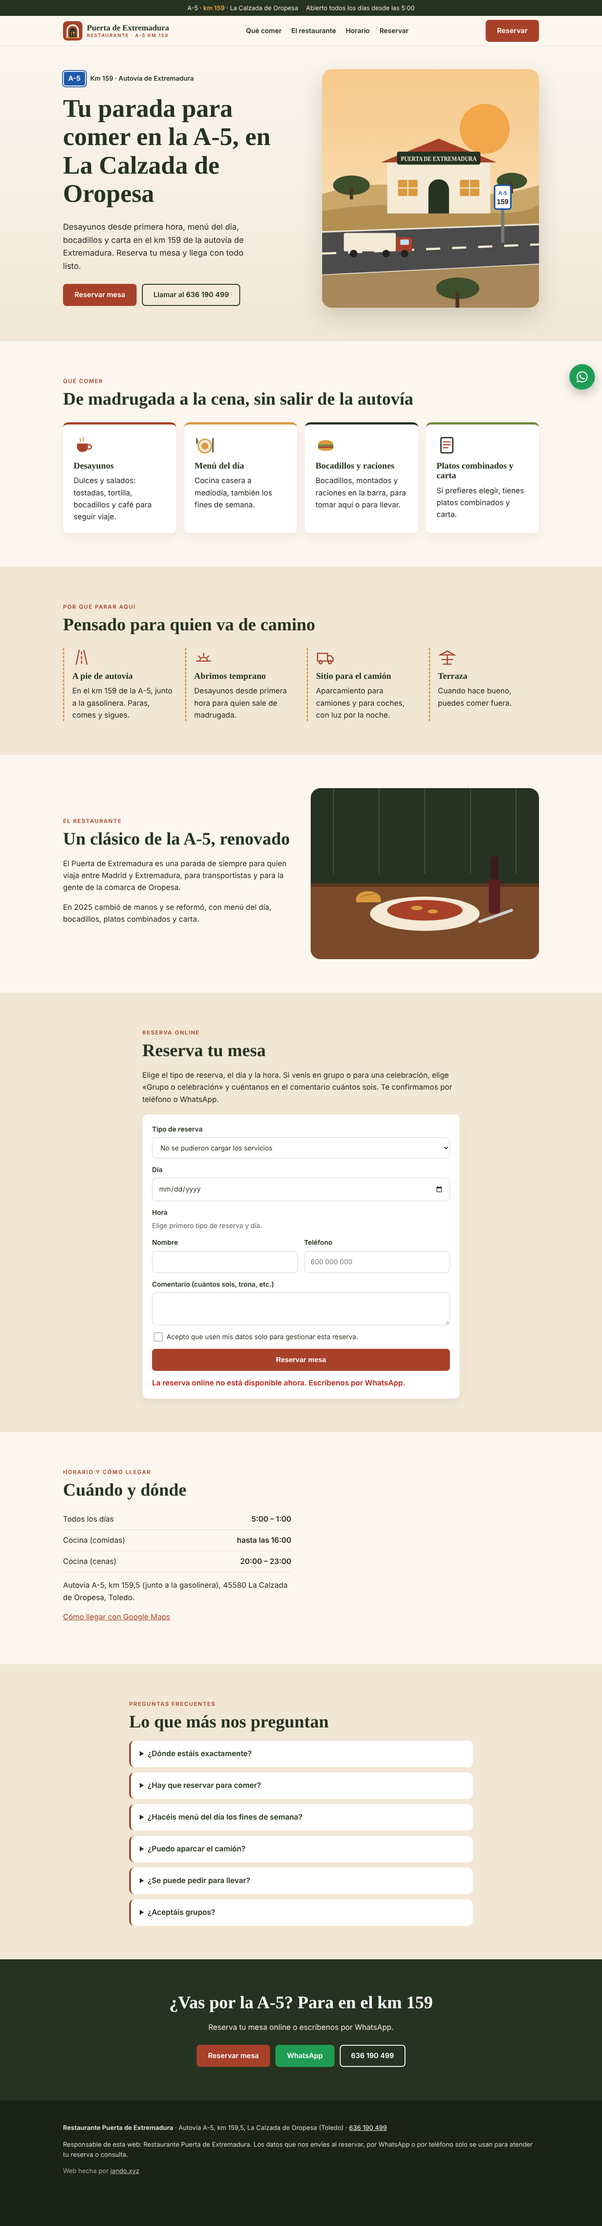
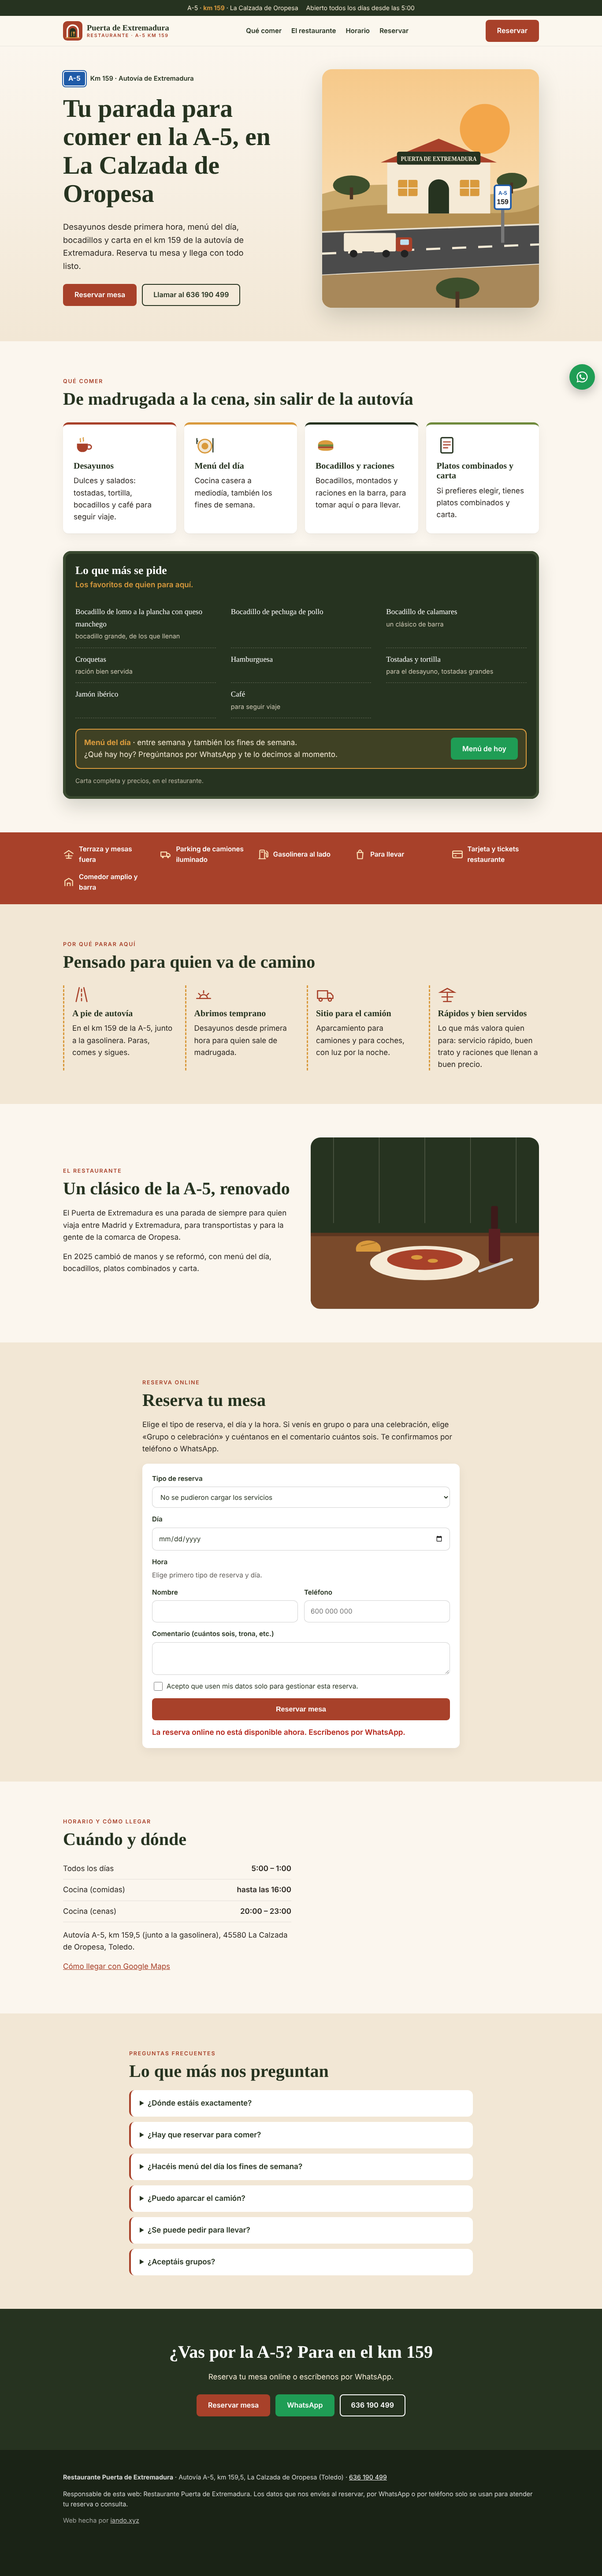
Puerta de Extremadura: sección de lo más pedido, menú del día y servicios

diff --git a/demos/puerta-extremadura-calzada/index.html b/demos/puerta-extremadura-calzada/index.html
@@ -137,6 +137,20 @@
   footer { background: #1a2316; color: rgba(255,255,255,.82); padding: 36px 0 100px; font-size: .9rem; }
   footer a { color: #fff; }
 
+  .pizarra { margin-top: 40px; background: var(--c-oscuro); color: #f5ead6; border-radius: 18px; padding: 30px 28px; box-shadow: inset 0 0 0 6px #3a4a30, 0 18px 40px rgba(38,51,32,.18); }
+  .pizarra h3 { color: #fff; font-size: 1.6rem; margin: 0; }
+  .pizarra-cab p { margin: 4px 0 0; color: var(--c-ocre); font-weight: 600; }
+  .platos { list-style: none; padding: 0; margin: 22px 0 0; display: grid; grid-template-columns: repeat(auto-fit, minmax(260px, 1fr)); gap: 0 34px; }
+  .platos li { padding: 12px 0; border-bottom: 1px dashed rgba(245,234,214,.28); }
+  .platos b { display: block; font-family: var(--f-titulos); font-weight: 500; font-size: 1.08rem; color: #fff; }
+  .platos span { font-size: .9rem; opacity: .8; }
+  .menu-hoy { margin-top: 24px; display: flex; flex-wrap: wrap; gap: 16px; align-items: center; justify-content: space-between; background: rgba(217,154,61,.14); border: 2px solid var(--c-ocre); border-radius: 12px; padding: 16px 18px; }
+  .menu-hoy b { color: var(--c-ocre); }
+  .pizarra-nota { margin: 16px 0 0; font-size: .88rem; opacity: .7; }
+  .franja { padding: 26px 0; background: var(--c-primario); color: #fff; }
+  .servicios-lista { list-style: none; margin: 0; padding: 0; display: grid; grid-template-columns: repeat(auto-fit, minmax(170px, 1fr)); gap: 14px 22px; }
+  .servicios-lista li { display: flex; align-items: center; gap: 10px; font-weight: 600; font-size: .95rem; }
+  .servicios-lista svg { width: 26px; height: 26px; flex: none; color: #fbe3b8; }
   .wa-flota { position: fixed; right: 16px; bottom: 16px; z-index: 30; width: 58px; height: 58px; border-radius: 50%; background: var(--c-wa); display: grid; place-items: center; box-shadow: 0 8px 24px rgba(0,0,0,.25); }
   .wa-flota svg { width: 30px; height: 30px; color: #fff; }
   @media (prefers-reduced-motion: reduce) { * { transition: none !important; scroll-behavior: auto !important; } }
@@ -221,6 +235,41 @@
           <h3>Platos combinados y carta</h3><p>Si prefieres elegir, tienes platos combinados y carta.</p>
         </article>
       </div>
+
+      <div class="pizarra">
+        <div class="pizarra-cab">
+          <h3>Lo que más se pide</h3>
+          <p>Los favoritos de quien para aquí.</p>
+        </div>
+        <ul class="platos">
+          <li><b>Bocadillo de lomo a la plancha con queso manchego</b><span>bocadillo grande, de los que llenan</span></li>
+          <li><b>Bocadillo de pechuga de pollo</b></li>
+          <li><b>Bocadillo de calamares</b><span>un clásico de barra</span></li>
+          <li><b>Croquetas</b><span>ración bien servida</span></li>
+          <li><b>Hamburguesa</b></li>
+          <li><b>Tostadas y tortilla</b><span>para el desayuno, tostadas grandes</span></li>
+          <li><b>Jamón ibérico</b></li>
+          <li><b>Café</b><span>para seguir viaje</span></li>
+        </ul>
+        <div class="menu-hoy">
+          <div><b>Menú del día</b> · entre semana y también los fines de semana.<br>¿Qué hay hoy? Pregúntanos por WhatsApp y te lo decimos al momento.</div>
+          <a class="btn btn-wa" href="https://wa.me/34636190499?text=Hola%2C%20%C2%BFqu%C3%A9%20hay%20hoy%20de%20men%C3%BA%3F" target="_blank" rel="noopener">Menú de hoy</a>
+        </div>
+        <p class="pizarra-nota">Carta completa y precios, en el restaurante.</p>
+      </div>
+    </div>
+  </section>
+
+  <section class="franja" aria-label="Servicios del restaurante">
+    <div class="contenedor">
+      <ul class="servicios-lista">
+        <li><svg viewBox="0 0 24 24" aria-hidden="true"><path d="M3 10 12 4l9 6M12 10v10M7 20h10M5 15h14" fill="none" stroke="currentColor" stroke-width="2" stroke-linecap="round"/></svg>Terraza y mesas fuera</li>
+        <li><svg viewBox="0 0 24 24" aria-hidden="true"><path d="M2 7h12v9H2zM14 10h4l3 3v3h-7z" fill="none" stroke="currentColor" stroke-width="2" stroke-linejoin="round"/><circle cx="6" cy="18" r="2" fill="currentColor"/><circle cx="17" cy="18" r="2" fill="currentColor"/></svg>Parking de camiones iluminado</li>
+        <li><svg viewBox="0 0 24 24" aria-hidden="true"><path d="M5 21V5a2 2 0 0 1 2-2h6a2 2 0 0 1 2 2v16M3 21h14M15 9h2a2 2 0 0 1 2 2v5a1.5 1.5 0 0 0 3 0V8l-3-3M8 7h4" fill="none" stroke="currentColor" stroke-width="2" stroke-linecap="round"/></svg>Gasolinera al lado</li>
+        <li><svg viewBox="0 0 24 24" aria-hidden="true"><path d="M6 8h12l-1 13H7zM9 8V6a3 3 0 0 1 6 0v2" fill="none" stroke="currentColor" stroke-width="2" stroke-linejoin="round"/></svg>Para llevar</li>
+        <li><svg viewBox="0 0 24 24" aria-hidden="true"><rect x="2" y="5" width="20" height="14" rx="2" fill="none" stroke="currentColor" stroke-width="2"/><path d="M2 10h20M6 15h4" stroke="currentColor" stroke-width="2"/></svg>Tarjeta y tickets restaurante</li>
+        <li><svg viewBox="0 0 24 24" aria-hidden="true"><path d="M4 20V9l8-5 8 5v11M9 20v-6h6v6" fill="none" stroke="currentColor" stroke-width="2" stroke-linejoin="round"/></svg>Comedor amplio y barra</li>
+      </ul>
     </div>
   </section>
 
@@ -232,7 +281,7 @@
         <div class="punto"><svg viewBox="0 0 48 48" fill="none" stroke="currentColor" stroke-width="3" stroke-linecap="round" aria-hidden="true"><path d="M18 6 10 42M30 6l8 36M24 10v6M24 22v6M24 34v6"/></svg><h3>A pie de autovía</h3><p>En el km 159 de la A-5, junto a la gasolinera. Paras, comes y sigues.</p></div>
         <div class="punto"><svg viewBox="0 0 48 48" fill="none" stroke="currentColor" stroke-width="3" stroke-linecap="round" aria-hidden="true"><path d="M6 34h36M14 34a10 10 0 0 1 20 0M24 14v6M11 21l4 4M37 21l-4 4"/></svg><h3>Abrimos temprano</h3><p>Desayunos desde primera hora para quien sale de madrugada.</p></div>
         <div class="punto"><svg viewBox="0 0 48 48" fill="none" stroke="currentColor" stroke-width="3" stroke-linejoin="round" aria-hidden="true"><path d="M4 14h26v20H4zM30 20h8l6 7v7H30z"/><circle cx="12" cy="37" r="4"/><circle cx="36" cy="37" r="4"/></svg><h3>Sitio para el camión</h3><p>Aparcamiento para camiones y para coches, con luz por la noche.</p></div>
-        <div class="punto"><svg viewBox="0 0 48 48" fill="none" stroke="currentColor" stroke-width="3" stroke-linecap="round" aria-hidden="true"><path d="M6 18 24 8l18 10ZM24 18v24M14 42h20M10 30h28"/></svg><h3>Terraza</h3><p>Cuando hace bueno, puedes comer fuera.</p></div>
+        <div class="punto"><svg viewBox="0 0 48 48" fill="none" stroke="currentColor" stroke-width="3" stroke-linecap="round" aria-hidden="true"><path d="M6 18 24 8l18 10ZM24 18v24M14 42h20M10 30h28"/></svg><h3>Rápidos y bien servidos</h3><p>Lo que más valora quien para: servicio rápido, buen trato y raciones que llenan a buen precio.</p></div>
       </div>
     </div>
   </section>
